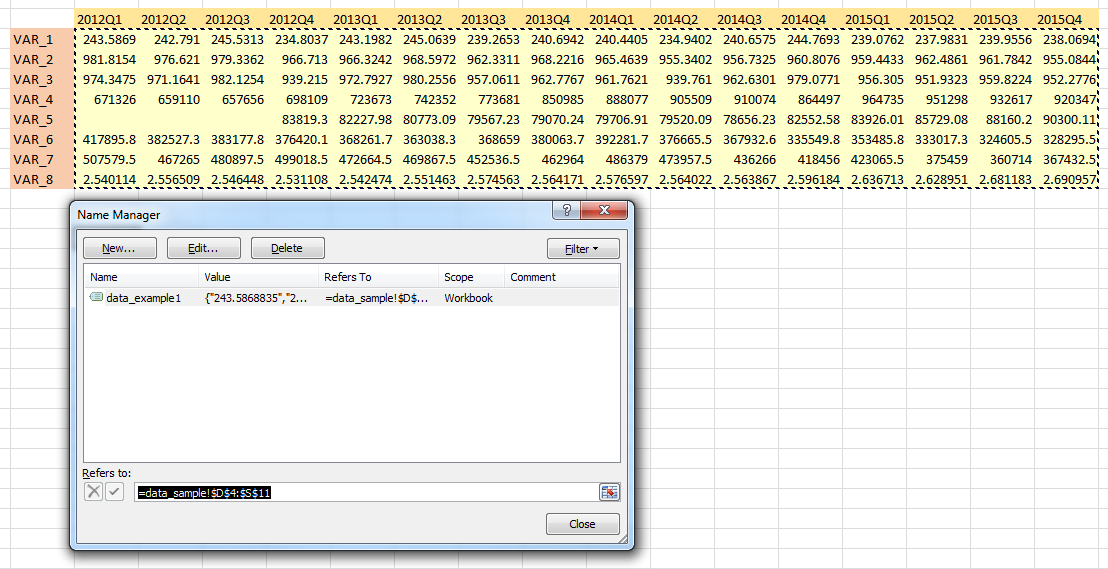
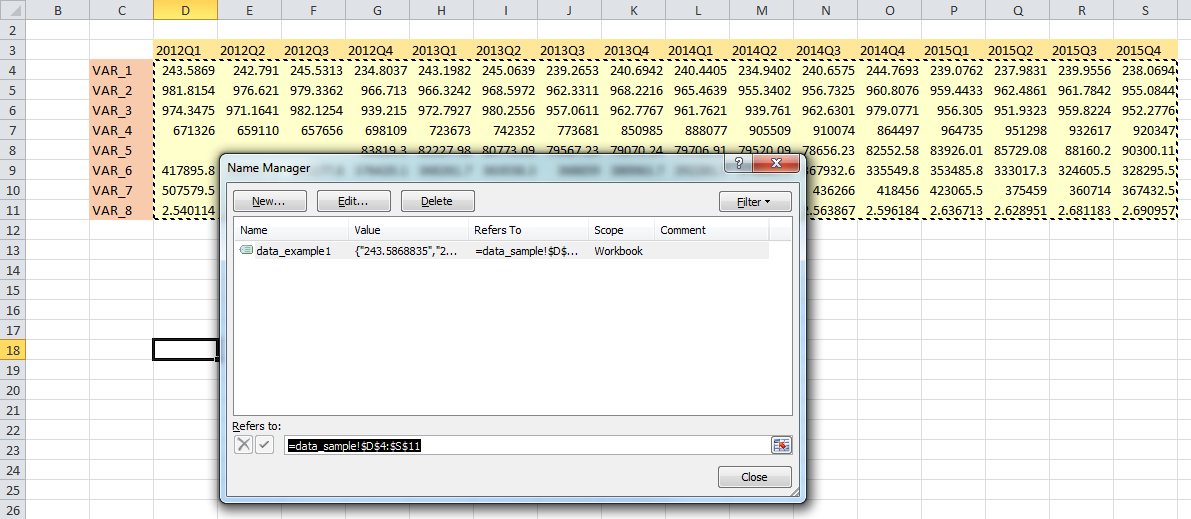
add rules and tutorial files. some minor improv. in relative algo

diff --git a/xltoy/collector.py b/xltoy/collector.py
@@ -30,7 +30,7 @@ class Collector:
     model_names = [re.compile('^model', re.IGNORECASE)]
     data_names = [re.compile('^data', re.IGNORECASE)]
 
-    def __init__(self, url, only_data=False):
+    def __init__(self, url:str, only_data:bool=False, relative:bool=False, add_fingerprint:bool=False):
         """
         Main data injestion, we need 2 instances of the sheet:
           - wb_data: with static data
@@ -38,6 +38,7 @@ class Collector:
 
         :param url: url to an input excel file
         :param only_data: read only static values
+        :param relative: all area are treated as if they starts from Row1 Col1
         """
         if not isfile(url):
             raise FileNotFoundError("File {} does not exists".format(url))
@@ -57,6 +58,8 @@ class Collector:
             self.wb = self.wb_data
         else:
             self.wb = load_workbook(filename=self.url)
+        self.relative = relative
+        self.add_fingerprint = add_fingerprint
 
         self.sheetnames = self.wb_data.sheetnames
         self.named_ranges = self.wb_data.get_named_ranges()
@@ -129,6 +132,16 @@ class Collector:
         log.debug("{} parameters collected".format(len(self.params)))
         log.debug("{} text range collected".format(len(self.text_ranges)))
 
+    def to_relative(self, rng_name:str, cell:Cell) -> str:
+        """
+        :param rng_name:
+        :param cell:
+        :return:
+        """
+        ref_cell = self.ranges[rng_name][0]
+        min_row, min_col = ref_cell.row, ref_cell.column
+        return "R{0}C{0}".format(cell.row - min_row + 1, cell.column - min_col + 1)
+
 
     def handle_range(self, labels: list, use_data:bool):
         """
@@ -147,18 +160,21 @@ class Collector:
                         raise NotImplementedError("Range defined on multiple sheets is not handled")
                     sheet_name = sheet_names.pop()
                     if use_data:
-                        coll[sheet_name] = {x.coordinate:x.value for x in cells}
+                        coll[sheet_name] = {self.to_relative(lbl,x) if self.relative else x.coordinate:x.value
+                                            for x in cells}
                     else:
-                        coll[sheet_name] = {x.coordinate:self.wb[sheet_name][x.coordinate].value for x in cells}
+                        coll[sheet_name] = {self.to_relative(lbl,x) if self.relative else x.coordinate:self.wb[sheet_name][x.coordinate].value
+                                            for x in cells}
                     break
         return coll
 
     def set_pseudo_excel(self):
         if not self.pseudo:
             # Remember dict are ordered!
-            self.pseudo['xltoy.version'] = version
-            self.pseudo['xltoy.filename'] = self.url
-            self.pseudo['xltoy.datetime'] = datetime.now().isoformat()
+            if self.add_fingerprint:
+                self.pseudo['xltoy.version'] = version
+                self.pseudo['xltoy.filename'] = self.url
+                self.pseudo['xltoy.datetime'] = datetime.now().isoformat()
 
             for sheet, labels in self.labels.items():
                 self.pseudo[sheet] = dict(zip(labels.values(), self.models[sheet].values()))
@@ -190,8 +206,17 @@ class YamlCollector(Collector):
 
 
 class DiffCollector:
-    def __init__(self, url1, url2, only_data:bool=False):
-        c1,c2 = [YamlCollector(url) if url.lower().endswith('yaml') else Collector(url,only_data=only_data)
+    def __init__(self, url1, url2, only_data:bool=False, relative:bool=False, add_fingerprint:bool=False):
+        """
+        workbook differ, given 2 files (excel, yaml or json) it can do intelligent comparison
+
+        :param url1:
+        :param url2:
+        :param only_data: ignore formulas and compare only values
+        :param relative: all area are treated as if they starts from Row1 Col1
+        :param add_fingerprint:
+        """
+        c1,c2 = [YamlCollector(url) if url.lower().endswith('yaml') else Collector(url,only_data=only_data, relative=relative, add_fingerprint=add_fingerprint)
                  for url in [url1,url2]]
 
         self.iter_differs = dictdiffer.diff(c1.pseudo,c2.pseudo)
@@ -217,5 +242,6 @@ class DiffCollector:
                         if sheet not in self.diff[kind]:
                             self.diff[kind][sheet] = {}
                         self.diff[kind][sheet] = cells
-        print(yaml.dump(self.diff))
+        if self.diff:
+            print(yaml.dump(self.diff))
 

diff --git a/scripts/cmd.py b/scripts/cmd.py
@@ -31,12 +31,15 @@ def cli():
 @click.option('--yaml', is_flag=True, help='Print out the yaml hiearchical view')
 @click.option('--data', is_flag=True, help='Collect only data, it will ignore formulas')
 @click.option('-v', '--verbose', count=True, help="verbose output (repeat for increased verbosity)")
+@click.option('--add_fingerprint', is_flag=True, help='Add metadata under section xltoy')
 @click.argument('filename')
 def collect(filename, **kwargs):
     set_verb(kwargs.get('verbose'))
     click.echo('Collect an excel')
     with timeit("{} collect".format(filename), kwargs.get('timeit')):
-        c = Collector(filename, only_data=kwargs.get('data'))
+        c = Collector(filename,
+                      only_data=kwargs.get('data'),
+                      add_fingerprint=kwargs.get('add_fingerprint'))
         if kwargs.get('yaml'):
             print(c.to_yaml())
 
@@ -44,13 +47,18 @@ def collect(filename, **kwargs):
 @click.command()
 @click.option('--timeit', is_flag=True, help='Print out how many times it takes for the task')
 @click.option('--data', is_flag=True, help='Collect only data, it will ignore formulas')
+@click.option('--relative', is_flag=True, help='Areas are handled as relative, each starts from row1,col1')
 @click.option('-v', '--verbose', count=True, help="verbose output (repeat for increased verbosity)")
+@click.option('--add_fingerprint', is_flag=True, help='Add metadata under section xltoy')
 @click.argument('filename1')
 @click.argument('filename2')
 def diff(filename1, filename2, **kwargs):
     set_verb(kwargs.get('verbose'))
     with timeit("collect 2 files", kwargs.get('timeit')):
-        d = DiffCollector(filename1,filename2, only_data=kwargs.get('data'))
+        d = DiffCollector(filename1,filename2,
+                          only_data=kwargs.get('data'),
+                          relative=kwargs.get('relative'),
+                          add_fingerprint=kwargs.get('add_fingerprint'))
         d.to_yaml()
 
 cli.add_command(collect)

diff --git a/README.md b/README.md
@@ -1,19 +1,26 @@
 # XLtoy: 
-The ultimate *excel to python* framework. 
+The ultimate toolkit for Microsoft Excel modelers. 
 
 ### The name
-*XLtoy* it's a word pun that starts from *xt to py* concept, but the *p* seem superfluous here and *xlto(p)y* became XLtoy, more funny.
+*XLtoy* it's a word pun that starts from *xt to py* concept, but the *p* seem superfluous here and *xlto(p)y* became 
+XLtoy, more funny.
 
 ### Description
-XLtoy framework can read, parse, diff, validate, manage changes and run out of the box complicated models written using Microsoft Excel. 
-Main idea here to do identify a subset of interesting cells and focalize only on these, so 
-with minimum changes to an existent sheet, the parser can handle all involved data.
+XLtoy framework can read, parse, diff, validate, manage changes and run out of the box complicated models written 
+using Microsoft Excel. All features will be developed in the dev plan below.
+I found that is too difficult, and often useless, to analyze an entire workbook, so main idea, here, is to 
+identify a subset of areas of interest and focalize only on these, so with minimum changes to an existent sheet, 
+the parser can handle it and produce usefull information. If you can apply some simple 
+[ rules](https://raw.githubusercontent.com/glaucouri/xltoy/main/rules.md)
+you are ready to go!
 
+This is an example of a tipical forecasting model that can be well handled by xltoy.
 ![xlsample](https://github.com/glaucouri/xltoy/raw/main/img/simple_model.png?raw=true)
-
+Green cells contain actual (or hystorical) values, model is developed in salmon and 
+dragged (in yellow). 
 
 ### Installation
-Up to now xltoy is available only on github repo, so after clone: 
+Up to now, xltoy is available only on github repo, so after clone: 
 
 > python setup.py
 
@@ -34,23 +41,38 @@ Commands:
 ```
 
 ## The framework
-The XLtoy Framework is composed of many subpackages, all of them are reachable via cli subcommands.
+The XLtoy Framework is composed of many subpackages, all of them are reachable via cli sub command.
 
-* **xltoy.collector** : It read a subset of an excel workbook and extract all needed information. This means equations, 
-named or anonimous, relation between formulas and after that, 
-all equations are stored in a dependency graph in a key:value structure using the mnemonic name for each equation.
-Result can be rappresented as hierarchical yaml or json or using the graph itself. This functionality solve problem related 
-to *change management*, *versioning* and *model governance* and *diff* operation.
+* **xltoy.collector** : It read an excel workbook and extract all needed information, following rules described here. 
+This means equations, named or anonymous exogenous data and parameters. 
+Result can be represented as hierarchical yaml or json. This functionality solve problem related 
+to *change management*, *versioning*, *model governance* and *diff* operation.
 
-* **xltoy.parser** : It can parse all collected equation in order to understand for each all the dependancies, 
-and transliterate each in a readable and working python code. 
+* **xltoy.parser** : It can parse all collected equation in order to understand for each all the dependencies, 
+and transliterate each in a readable and working python code.
+All relations between formulas are stored in a dependency graph in a key:value structure 
+using the mnemonic name for each equation. This data structure allow us to do a topological analysis of entire
+system of equations
 
 ## Time line
 The framework will be finished in some steps, i want to share the release plane because 
-starting with first release i will need feedback, use cases and tester.  
+with the release of first version i will need feedback, use cases and tester.  
 
 #### Version 0.1: first working version:
-* it define working rules
+* it define [working rules](https://raw.githubusercontent.com/glaucouri/xltoy/main/rules.md)
 * fully testes with py3.6 to py3.8
 * collector can read data,formulas and can show an entire workbook as yaml or json.
-* **diff** works with data and formulas too, it can compare 2 workbook or a representation of it yaml or json.  
+* **diff** works with data and formulas too, it can compare 2 workbook or a representation of it yaml or json.
+
+#### Version 0.2: parser feature:
+* parser can understand excel formula (probably not all syntax)
+* in memory graph representation with all relation between equations.
+* can find all predecessors and successors of a given equation.
+* models can be exported as graph or python code.
+
+#### Version 0.3: executor feature:
+* data can be stored as pandas DataFrame
+* models can be executed on external data. Binding feature.
+
+#### Version X: big data feature:
+* model can be distributed on a spark cluster and executed in order to work on big data

diff --git a/tutorial.md b/tutorial.md
@@ -1,10 +1,11 @@
 ## xltoy tutorial
 
-#### case1: data diff [positional]
+#### case1: data diff [positional absolute]
 
 In this example, we compare 2 workbook with only 1 data range each one. 
-Working area is set only on numeric cells, so we can only do positional difference,
-in this case we have add a new line, row 12 and changed a cell in position M7.
+Working area is set only on numeric cells, so we can do positional difference.
+In second workbook we have add a new line, row 12 corresponding to VAR_9 
+and changed a cell in position M7.
 
 ![xlsample](https://github.com/glaucouri/xltoy/raw/main/img/data_sample1.png?raw=true)
 ![xlsample](https://github.com/glaucouri/xltoy/raw/main/img/data_sample1_diff.png?raw=true)
@@ -31,7 +32,17 @@ add:
 change:
   data_sample:
     M7: 905509 -> 905510
-  xltoy:
-    datetime: 2020-11-27T17:43:30.051900 -> 2020-11-27T17:43:30.068501
-    filename: data/data_sample1.xlsx -> data/data_sample1_diff.xlsx
 
+
+#### case2: data diff [positional relative]
+
+First work book is from case1
+In second workbook range was moved to another position 
+
+![xlsample](https://github.com/glaucouri/xltoy/raw/main/img/data_sample1_relative.png?raw=true)
+
+```
+(xltoy)$ xltoy diff data/data_sample1.xlsx  data/data_sample1_relative.xlsx   --relative
+
+<no output>
+```

diff --git a/rules.md b/rules.md
@@ -1,0 +1,18 @@
+### xltoy Rules
+
+* During the data ingestion phase xltoy start collecting cells from known **working areas**.
+
+* Working areas are *named ranges* set in **Name Manager**, they are of 3 types:
+  - **data**: defines the area that delimits the data sources, it enable some features like diff positional or relative
+  - **model**: define the model area, it must be one row or one column. 
+  - **names**: if present it is used to give a mnemonic name to each equation in the model area. It must be coupled 
+    to an omonimous model range.
+  Type is distinguished by a regular expression defined in settings file. 
+  By default string with suffix *data_* *model_* *names_* case insensitive. 
+    
+* Only one type for *working area* can be set for each sheet. The main idea here is to promote some kind of discipline 
+  and order models one for sheet.
+  
+* Model must be a range of one column or row, optionally aligned with names range. Aligned means that ranges must start
+  from same position and must have the same shape. With this technique, each names is coupled to his equation. If names
+  range is not given equation will be named as sequence of anon_* names.    
